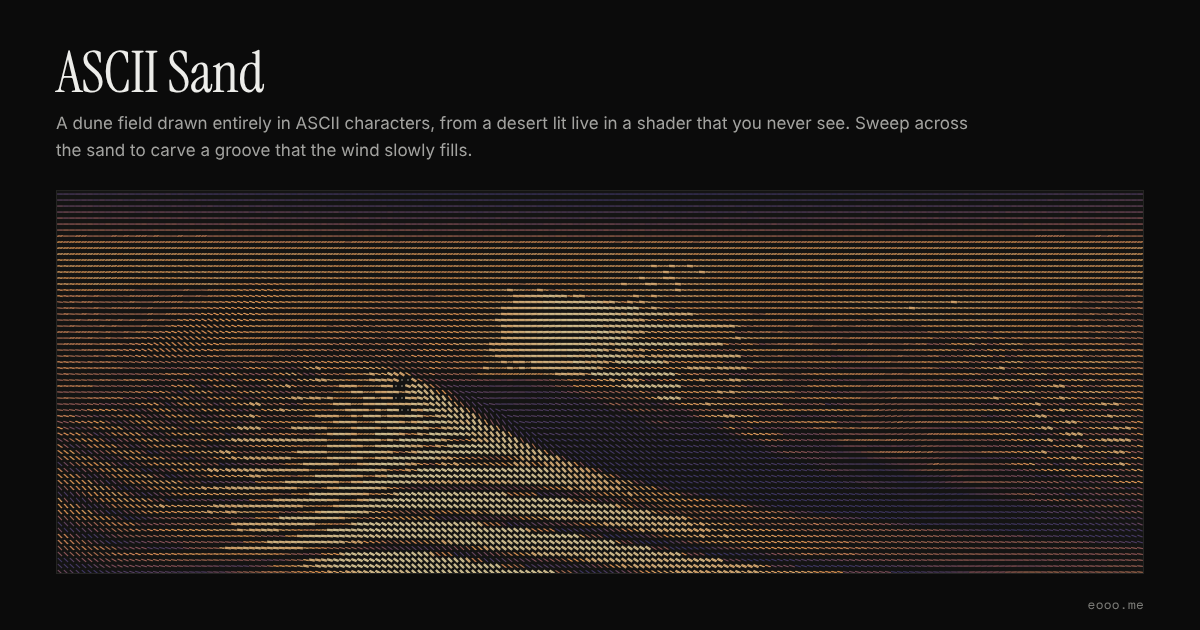
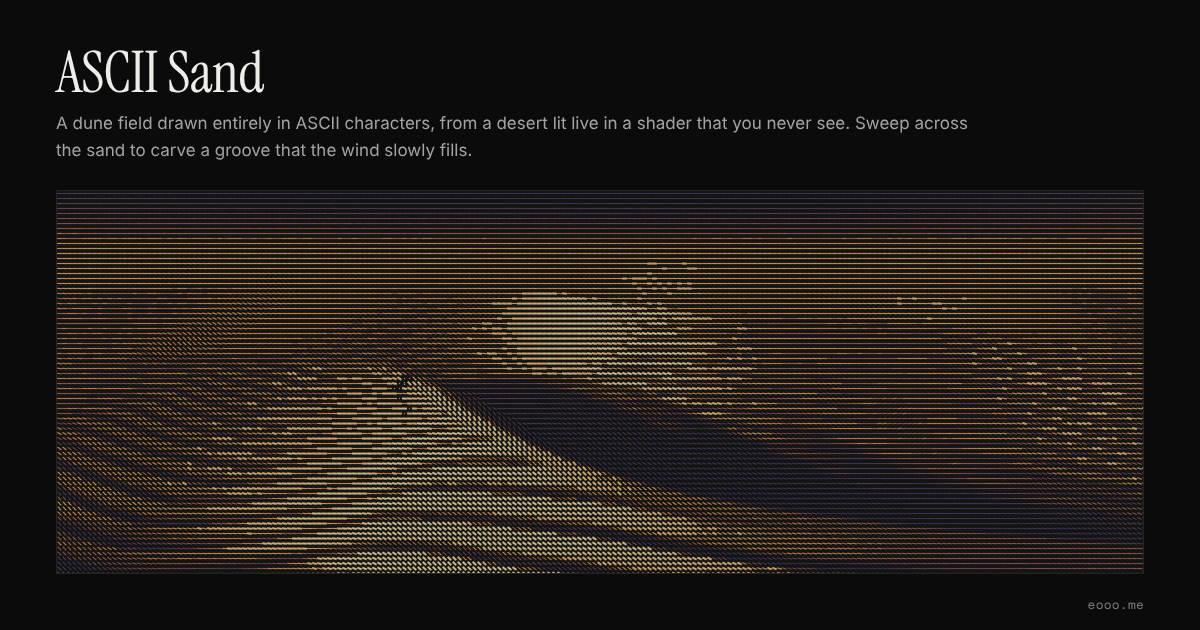
feat(lab): 字符画的格子再缩到 5px，舞台不管浅色深色都用深底
laken 比过 6px、5px 和深底以后定了 5px 加深底。
- 五个 ASCII 实验默认一格 5px（上一个提交是 6px）。
- index.md 加一个 dark 开关：写了 dark: true 的实验，舞台在服务端就带上 .always-dark，
  global.css 里手动深色那一组颜色同时给它，所以舞台不管主题都是深底，实验读到的 color-scheme 也是深色，
  一直按深色那套画，组件挂上之前就是深的，不会闪。五个 ASCII 实验都开着。
- 同步改了 README（舞台、frontmatter、配色三处）、五个 prompt 和 og.mjs 的注释，重截五张分享图。

Claude-Session: https://claude.ai/code/session_01AtSjXJX7xpdrjdmPy7ukhw

Changed region(s): [[0.0308, 0.3016, 0.9558, 0.9349]]

diff --git a/src/labs/ascii-clouds/clouds.js b/src/labs/ascii-clouds/clouds.js
@@ -6,9 +6,9 @@
      2. 云（clouds）：镜头站在地上往前上方看，画面最下沿刚好是地平线，整块都是天。每个像素往天上打一条光线，
         在 1 到 2.6 公里高的云层里走 48 步：云底平、云顶圆（云越厚顶越高），再用一张 32³ 的立体噪声（几层 Worley 反过来，
         一团一团鼓起来的）把边咬碎；每步往太阳那边再取三个点，算这里被挡掉多少光，加上天光，远处被雾抹成地平线的颜色。
-        这张图只画到「一格两个像素」那么细（字一格 6px，再细也看不出来），比整屏画便宜几十倍。
+        这张图只画到「一格两个像素」那么细（字一格 5px，再细也看不出来），比整屏画便宜几十倍。
         底稿存颜色和这一格有多少云。
-     3. 合成（composite）：整块切成 6px 见方的格子，每格都有字，不留空：
+     3. 合成（composite）：整块切成 5px 见方的格子，每格都有字，不留空：
         按这一格的亮度从 . : - = + * # % @ 里挑（越亮越浓），天是淡的点，云是浓的字；
         字顺着明暗的等高线转，云边一圈的字绕着云走，跟海浪里字顺着浪头转是一个做法。
         深色主题是黄昏：太阳贴着地平线，云被照成金色、粉色，背光的地方是紫的，字就用底稿的颜色；
@@ -326,7 +326,7 @@ const COMP_FS = /* glsl */ `
  * @param {HTMLCanvasElement} canvas
  * @param {{ period?: number, cell?: number, fps?: number }} [opts]
  */
-function create(canvas, { period = 12000, cell = 6, fps = 30 } = {}) {
+function create(canvas, { period = 12000, cell = 5, fps = 30 } = {}) {
   const gl = context(canvas);   // 没有 WebGL2 就抛错，交给调用的人接
   const software = softwareGL(gl);
   const motion = matchMedia("(prefers-reduced-motion: reduce)");

diff --git a/src/labs/ascii-waves/waves.js b/src/labs/ascii-waves/waves.js
@@ -6,7 +6,7 @@
         水的亮度（浪顶比浪谷亮，迎着光的浪面、反光更亮，远处被雾抹到中间）、浪头在画面上的走向、浪花有多浓。
         浪花只在三道最大的浪的浪尖上一簇一簇地起，往后拖一段渐淡的尾巴，每簇自己冒出来、再散掉；
         浪尖挤到一起（雅可比行列式变小）的地方、手划过的尾迹上也有。
-     2. 合成（composite）：整块切成 6px 见方的格子，每格都有字，不留空：
+     2. 合成（composite）：整块切成 5px 见方的格子，每格都有字，不留空：
         浪花够浓的格子画浪花的字 . : * o @（越浓越大），深色主题是白的，浅色主题是留白里淡淡的蓝，不转；浪花边上零星撒几个点当飞沫。
         别的格子画水：按亮度从 - ~ = 里挑，颜色沿一条色带走（深色主题越亮越浓，由深蓝到浅蓝；浅色主题反过来越暗越浓，由浅灰蓝到深蓝），
         字再转到浪头的走向上，一道道浪就被横着的字描出来，尾迹推出去的浪上的字也顺着那道浪转，
@@ -365,7 +365,7 @@ function lookAt(eye, at) {
  * @param {HTMLCanvasElement} canvas
  * @param {{ period?: number, cell?: number, fps?: number }} [opts]
  */
-function create(canvas, { period = 12000, cell = 6, fps = 30 } = {}) {
+function create(canvas, { period = 12000, cell = 5, fps = 30 } = {}) {
   const gl = context(canvas);   // 没有 WebGL2 就抛错，交给调用的人接
   const software = softwareGL(gl);
   const motion = matchMedia("(prefers-reduced-motion: reduce)");

diff --git a/src/labs/ascii-coal/coal.js b/src/labs/ascii-coal/coal.js
@@ -9,7 +9,7 @@
         朝着它的面一块块闪亮，亮面跟着光滑过去；斜着的面映着一点天光；鼠标是第二盏灯，悬在煤上，跟着鼠标走。
         越远越暗，远处没进黑里。缝里住着冷的蓝光：平时只有几处亮，沿着缝慢慢挪，把缝两边的煤块底下也映蓝。
         底稿存三样：亮度、蓝光有多亮、字该朝哪个方向放（煤面的等高线投到画面上，存成二倍角）。
-     3. 合成（composite）：整块切成 6px 见方的格子，每格都有字，不留空。跟 ASCII Waves 一个做法：
+     3. 合成（composite）：整块切成 5px 见方的格子，每格都有字，不留空。跟 ASCII Waves 一个做法：
         煤面按亮度从 - = # 里挑，颜色沿一条色带走，字再转到等高线的走向上，同一个面上的字朝一个方向，换一个面就换一个方向，
         一块块煤的棱角就被字描出来；蓝光把字染蓝，最亮的地方（裂开时炸开的那一下）是不转的 . : * o @。
         画布是透明的，字以外露出网页自己的底色。
@@ -454,7 +454,7 @@ const compFS = (T) => /* glsl */ `
  * @param {HTMLCanvasElement} canvas
  * @param {{ period?: number, cell?: number, fps?: number }} [opts]
  */
-function create(canvas, { period = 12000, cell = 6, fps = 30 } = {}) {
+function create(canvas, { period = 12000, cell = 5, fps = 30 } = {}) {
   const P = DEF;
   const gl = context(canvas);   // 没有 WebGL2 就抛错，交给调用的人接
   const software = softwareGL(gl);

diff --git a/src/labs/ascii-sand/sand.js b/src/labs/ascii-sand/sand.js
@@ -7,7 +7,7 @@
         太阳低低地挂在左后方：朝着镜头的迎风坡亮，背风坡背着光，沙丘的影子拖得很长（往太阳那边走几步看挡没挡住）；
         越远越被沙尘的雾抹平，到地平线跟天接上。棱上不时被风扬起一缕缕沙，顺着风往下飘。
         底稿存三样：亮度、扬起的沙有多少、字该朝哪个方向放（沙纹的走向，没有沙纹就顺着沙丘的等高线，投到画面上，存成二倍角）。
-     2. 合成（composite）：整块切成 6px 见方的格子，每格都有字，不留空。跟 ASCII Waves 一个做法：
+     2. 合成（composite）：整块切成 5px 见方的格子，每格都有字，不留空。跟 ASCII Waves 一个做法：
         沙按亮度从 - ~ = 里挑，颜色沿一条色带走，字再转到沙纹的走向上，一道道沙纹就被字描出来，跟着透视往远处收；
         扬起来的沙是另一个颜色的 . : *，不转。画布是透明的，字以外露出网页自己的底色。
 
@@ -406,7 +406,7 @@ const COMP_FS = /* glsl */ `
  * @param {HTMLCanvasElement} canvas
  * @param {{ period?: number, cell?: number, fps?: number }} [opts]
  */
-function create(canvas, { period = 12000, cell = 6, fps = 30 } = {}) {
+function create(canvas, { period = 12000, cell = 5, fps = 30 } = {}) {
   const gl = context(canvas);   // 没有 WebGL2 就抛错，交给调用的人接
   const software = softwareGL(gl);
   const motion = matchMedia("(prefers-reduced-motion: reduce)");

diff --git a/src/labs/ascii-black-hole/hole.js b/src/labs/ascii-black-hole/hole.js
@@ -9,7 +9,7 @@
         盘上一道道气流按开普勒转：里圈快、外圈慢。
         底稿存三样：亮度、星星有多亮、字该朝哪个方向放（气体绕着转的方向，按屏幕上算的，
         所以绕到黑洞上面的那道光环，字也跟着绕过去），方向存成二倍角。
-     2. 合成（composite）：整块切成 6px 见方的格子。跟另外几个字符画一个做法：
+     2. 合成（composite）：整块切成 5px 见方的格子。跟另外几个字符画一个做法：
         盘按亮度从 - ~ = 里挑，颜色沿一条色带走，字再转到气体的流向上，一圈圈轨道就被字描出来；
         星星是另一个颜色的 . + *，不转；黑洞和空的天上没有字，露出网页自己的底色。
 
@@ -296,7 +296,7 @@ const compFS = () => /* glsl */ `
  * @param {HTMLCanvasElement} canvas
  * @param {{ period?: number, cell?: number, fps?: number }} [opts]
  */
-function create(canvas, { period = 12000, cell = 6, fps = 30 } = {}) {
+function create(canvas, { period = 12000, cell = 5, fps = 30 } = {}) {
   const gl = context(canvas);   // 没有 WebGL2 就抛错，交给调用的人接
   const software = softwareGL(gl);
   const motion = matchMedia("(prefers-reduced-motion: reduce)");

diff --git a/src/content.config.ts b/src/content.config.ts
@@ -33,6 +33,7 @@ const labs = defineCollection({
     date: z.coerce.date(),            // 做出来的日子
     inspiration: z.url().optional(), // 照着谁的设计做的
     wip: z.boolean().default(false),  // 还没做完：卡片上不放组件，也不生成详情页
+    dark: z.boolean().default(false), // 舞台不管浅色深色都是深底，实验里也按深色画（字符画这种在浅底上发虚的）
     order: z.number(),                // 整体按 date 新的在前，同一天的按它排，越小越靠前
     prompt: z.string(),               // 详情页上的 Prompt：拷给 AI 就能照着做出这个实验的一段话
   }),

diff --git a/src/styles/global.css b/src/styles/global.css
@@ -37,6 +37,7 @@
 }
 
 /* 配色。浅色是默认；深色两处写：跟随系统（没手动选过浅色时），和手动选了深色。
+   手动选了深色那一处同时给 .always-dark：不管主题都用深色的一块（比如字符画实验的舞台），整块里的颜色都换成深色那几档。
    灰是略带暖的中性灰，强调色只有一个：钴蓝，只给链接、当前位置和字符画里被搅动的字。 */
 :root {
   --bg: #F7F7F5;
@@ -76,7 +77,8 @@
     color-scheme: dark;
   }
 }
-:root[data-theme="dark"] {
+:root[data-theme="dark"],
+.always-dark {
   --bg: #0B0B0B;
   --bg-2: #141413;
   --fg: #EDEDEA;

diff --git a/README.md b/README.md
@@ -40,7 +40,7 @@ pnpm check      # 类型检查
 ## 加一个实验
 
 1. 建目录 `src/labs/<slug>/`，`slug` 就是网址里那段（`/lab/<slug>/`），用小写和短横线。
-2. 写 `Demo.tsx`，默认导出一个 React 组件。根元素写 `className="lab-root <自己的类名>"`：`lab-root` 让它撑满舞台、内容居中，颜色、圆角、阴影都从它上面的变量取（见下面「实验的样子」）。舞台在卡片上高 280px，详情页上撑满第一屏剩下的高度（宽 1440、高 900 的窗口里大约 1200×580，手机上 360×500 上下），底色跟着主题走（浅色是浅灰，深色是深灰）。样式写在同目录的 `style.css`，在 `Demo.tsx` 里 `import "./style.css"`，选择器都挂在自己的类名下面（`.folder-lab .front`），不写裸的 `button`、`p`。图标从 `../_kit/icons` 拿，要用 WebGL2 画的从 `../_kit/gl.js` 拿样板（建上下文、编着色器、离屏图这些）。图片放 `assets/`，引用写 `import cover from "./assets/cover.webp?url"`（带 `?url` 拿到的是地址；不带的话 Astro 给的是一个对象，`<img src>` 会变成 `[object Object]`）。
+2. 写 `Demo.tsx`，默认导出一个 React 组件。根元素写 `className="lab-root <自己的类名>"`：`lab-root` 让它撑满舞台、内容居中，颜色、圆角、阴影都从它上面的变量取（见下面「实验的样子」）。舞台在卡片上高 280px，详情页上撑满第一屏剩下的高度（宽 1440、高 900 的窗口里大约 1200×580，手机上 360×500 上下），底色跟着主题走（浅色是浅灰，深色是深灰）；`index.md` 写了 `dark: true` 的，不管主题都是深灰的底，实验里读到的 `color-scheme` 也是深色，就一直按深色那套画。样式写在同目录的 `style.css`，在 `Demo.tsx` 里 `import "./style.css"`，选择器都挂在自己的类名下面（`.folder-lab .front`），不写裸的 `button`、`p`。图标从 `../_kit/icons` 拿，要用 WebGL2 画的从 `../_kit/gl.js` 拿样板（建上下文、编着色器、离屏图这些）。图片放 `assets/`，引用写 `import cover from "./assets/cover.webp?url"`（带 `?url` 拿到的是地址；不带的话 Astro 给的是一个对象，`<img src>` 会变成 `[object Object]`）。
 3. 写 `index.md`：
 
    ```md
@@ -51,6 +51,7 @@ pnpm check      # 类型检查
    date: 2025-01-08         # 做出来的日子：卡片上显示年月（Jan 2025），详情页显示月份全称
    inspiration: https://…   # 照着谁的设计做的，没有就不写
    wip: true                # 还没做完：卡片上画斜条纹，不挂组件，不生成详情页
+   dark: true               # 舞台不管浅色深色都是深底。五个 ASCII 实验都开着：细的字在浅灰底上发虚（2026-11-17）
    order: 5                 # 同一天做的按它排，越小越靠前
    prompt: |-               # 详情页上的 Prompt，英文，分段，保留换行（所以是 |-，不是 >-）
      Add a folder to my project that opens and fans out the photos inside when you point at it. …
@@ -95,7 +96,7 @@ pnpm check      # 类型检查
 ## 设计约定
 
 - 直角、不用阴影，区块之间用 1px 细线分开。首页每一节左边是等宽小字的节名，宽屏上跟着滚动停在顶上。
-- 黑白灰为主，略带暖。强调色只有一个钴蓝，只给链接、当前状态和字符画里被搅动的字：浅色主题 `#2F4BE8`（在底色上对比度 6.0），深色主题 `#8597FF`（7.4）。原来是炭火的橙，2026-10-27 laken 嫌它发黄，换成了蓝。灰的几档都过 4.5。值在 `global.css` 开头，深色写了两处（跟随系统、手动选了深色），改要一起改。
+- 黑白灰为主，略带暖。强调色只有一个钴蓝，只给链接、当前状态和字符画里被搅动的字：浅色主题 `#2F4BE8`（在底色上对比度 6.0），深色主题 `#8597FF`（7.4）。原来是炭火的橙，2026-10-27 laken 嫌它发黄，换成了蓝。灰的几档都过 4.5。值在 `global.css` 开头，深色写了两处（跟随系统、手动选了深色），改要一起改；手动选了深色那一处同时管 `.always-dark`，就是不管主题都用深色的一块（`dark: true` 的实验舞台）。
 - 大标题 Instrument Serif（第二行斜体），标签、日期、导航这些小字 DM Mono，正文用系统字体。两款都是 SIL OFL 1.1，许可证在 `public/fonts/OFL.txt`，文件是从 sooty 官网拷来的拉丁字母子集。字体都放在本站，不从 Google Fonts 拿。
 - 浅色、深色跟随系统，顶栏右边的按钮可以手动换，记在 `localStorage` 的 `theme` 里；`<head>` 最前面那段脚本在页面画出来之前就定好，不闪。
 - 页面上只有淡入和短距离的位移（`.rise`），系统开了「减弱动态效果」就不动。一直在动的只有首屏的字符画。
@@ -127,7 +128,7 @@ pnpm check      # 类型检查
 - **Astro**（静态生成）：比较过留在 Vite + React 单页、Next.js 静态导出、Eleventy。原来的单页把所有东西都放在一个 JS 里，HTML 是空的，搜索引擎和分享卡片都看不到内容，首屏要等 React 下载完；Next.js 静态导出每页都带着 React 的运行时；Eleventy 页面很轻，但实验是 React 组件，要另想办法挂。Astro 默认页面不带 JS，又能把 React 组件当「岛」按需挂，正好：首页本身只有主题按钮和字符画两段小脚本，React 和实验的代码等滚到实验那一节才下载，一个实验一个文件。sooty 的官网也是 Astro，用法一样。
 - **React 只给实验用**：实验原来就是 React 写的，拖动、切换这些交互用 React 写也顺手，源码公开给人看。2026-10-27 重写时样式换成了普通 CSS 和共用的 `_kit/kit.css`，去掉了 Motion、Tabler 图标和 Tailwind 的类名（见「实验的样子」）。网站本身（顶栏、首页、详情页）全是 Astro 组件和普通 CSS。
 - **Tailwind 只扫 `src/labs/`**：现在的实验都不用它的类名，留着主要是 preflight 当整站的样式重置；以后的实验想用类名也能用。网站自己的样式不用 Tailwind，写在组件的 `<style>` 里。
-- **ASCII Waves、ASCII Clouds、ASCII Coal、ASCII Sand、ASCII Black Hole 直接写 WebGL2，不引 3D 库**：五个实验都是着色器在离屏图里画一个真的 3D 场景当底稿（海：透视镜头、12 万个点的海面网格、深度；云：往天上打光线，在云层里一步步走；煤：斜着往下看一床煤块，按 Voronoi 分成一块块，每块的高度连同坡度一起算，光线步进只在尺寸变了时算一次、存下落点，每帧只重新打光，2026-11-05 照 laken 给的一块裂开的煤的图加的；沙：站在沙丘上往地平线看，每个像素往高度场打光线，迎风坡缓、背风坡陡，迎风坡上有沙纹，低低的太阳往太阳那边走几步算影子，2026-11-06 加的；黑洞：每个像素的光线按史瓦西黑洞的引力一步步弯着走，穿过吸积盘就加上盘在那儿的光，盘后面那一半被弯到黑洞上下成两道光环，2026-11-09 laken 要一个宇宙题材的，挑了黑洞），再全屏挑字，屏上只有字。五个实验挑字的做法一样：- ~ = 这类横的字转到浪头、沙纹、煤面等高线、气体绕着转的走向上，明暗主要靠颜色。格子 6px 见方，横的字连描边一起拉到正好一格宽，左右两格首尾相接连成一整道（原来是 8px、拉到八成多宽，一段段断开的；2026-11-17 laken 嫌浅色背景上看不清，要格子密一点、铺满，改成了现在这样）。黑洞的光线是弯的，字的方向没法从盘面直接投到屏幕上，改成按屏幕上「穿过盘面那一点的半径」的导数算，绕到黑洞上面的光环上字也跟着绕。煤和沙第一版是正对着、从正上方看的，缝和棱用不转的 ~ - \ | / 描（老式字符画的做法），laken 觉得跟海和云比差太多，2026-11-06 都改成了现在的透视镜头和转着的字。2026-11-04 先用 Three.js 写了海浪（laken 定的「全程用 Three.js 和 shader 实时渲染」），同一天做云的时候 laken 觉得不用 Three.js 也能一模一样，定了两个实验都改成原生 WebGL2。着色器本来就是自己写的，Three.js 只替我们做了镜头矩阵、离屏图、深度、mipmap 和「鼠标落在海面哪里」，这些在 `src/labs/_kit/gl.js`（建上下文、编着色器、按类型设 uniform、全屏三角形、离屏图、从 canvas 建贴图）和 `waves.js` 开头的两个矩阵函数里，一共一百多行。改完以后海浪的静止帧跟 Three.js 那版逐像素一样（深浅两种主题、1 倍和 2 倍屏都比过），海浪这个实验少下 540 KB（gzip 后 135 KB）。也看过：
+- **ASCII Waves、ASCII Clouds、ASCII Coal、ASCII Sand、ASCII Black Hole 直接写 WebGL2，不引 3D 库**：五个实验都是着色器在离屏图里画一个真的 3D 场景当底稿（海：透视镜头、12 万个点的海面网格、深度；云：往天上打光线，在云层里一步步走；煤：斜着往下看一床煤块，按 Voronoi 分成一块块，每块的高度连同坡度一起算，光线步进只在尺寸变了时算一次、存下落点，每帧只重新打光，2026-11-05 照 laken 给的一块裂开的煤的图加的；沙：站在沙丘上往地平线看，每个像素往高度场打光线，迎风坡缓、背风坡陡，迎风坡上有沙纹，低低的太阳往太阳那边走几步算影子，2026-11-06 加的；黑洞：每个像素的光线按史瓦西黑洞的引力一步步弯着走，穿过吸积盘就加上盘在那儿的光，盘后面那一半被弯到黑洞上下成两道光环，2026-11-09 laken 要一个宇宙题材的，挑了黑洞），再全屏挑字，屏上只有字。五个实验挑字的做法一样：- ~ = 这类横的字转到浪头、沙纹、煤面等高线、气体绕着转的走向上，明暗主要靠颜色。格子 5px 见方，横的字连描边一起拉到正好一格宽，左右两格首尾相接连成一整道（原来是 8px、拉到八成多宽，一段段断开的；2026-11-17 laken 嫌浅色背景上看不清，要格子密一点、铺满，6px 和 5px 比过以后选了 5px）。黑洞的光线是弯的，字的方向没法从盘面直接投到屏幕上，改成按屏幕上「穿过盘面那一点的半径」的导数算，绕到黑洞上面的光环上字也跟着绕。煤和沙第一版是正对着、从正上方看的，缝和棱用不转的 ~ - \ | / 描（老式字符画的做法），laken 觉得跟海和云比差太多，2026-11-06 都改成了现在的透视镜头和转着的字。2026-11-04 先用 Three.js 写了海浪（laken 定的「全程用 Three.js 和 shader 实时渲染」），同一天做云的时候 laken 觉得不用 Three.js 也能一模一样，定了两个实验都改成原生 WebGL2。着色器本来就是自己写的，Three.js 只替我们做了镜头矩阵、离屏图、深度、mipmap 和「鼠标落在海面哪里」，这些在 `src/labs/_kit/gl.js`（建上下文、编着色器、按类型设 uniform、全屏三角形、离屏图、从 canvas 建贴图）和 `waves.js` 开头的两个矩阵函数里，一共一百多行。改完以后海浪的静止帧跟 Three.js 那版逐像素一样（深浅两种主题、1 倍和 2 倍屏都比过），海浪这个实验少下 540 KB（gzip 后 135 KB）。也看过：
   - Three.js（0.186，MIT）：`PerspectiveCamera`、`RawShaderMaterial`、`WebGLRenderTarget`、`Raycaster` 正好都有，但只用到这几样，场景树、材质、灯光这些大半的代码用不上，却要整个下载。
   - OGL（1.0，Unlicense）：小，接口跟 Three.js 像，但 2025 年初以后没再发版。
   - regl（2.1，MIT）：函数式的写法很省，但只支持 WebGL1，着色器得改写成 GLSL 1.0，2024 年以后没再发版。

diff --git a/src/labs/ascii-coal/index.md b/src/labs/ascii-coal/index.md
@@ -3,6 +3,7 @@ title: ASCII Coal
 summary: A bed of coal drawn entirely in ASCII characters, from lumps lit live in a shader that you never see. Sweep across it and it cracks open, lit from within.
 tags: [WebGL, Shaders]
 date: 2026-11-05
+dark: true
 order: 11
 prompt: |-
   Add an ASCII coal bed to my project: a bed of faceted coal lumps seen at an angle, lit live in a WebGL2 shader and shown only as ASCII characters, where the pointer cracks it open and cold blue light leaks out. Use raw WebGL2 with no 3D library: one engine file, plus a thin component in my existing framework. The canvas is transparent and fills its container; don't change my page's styles.
@@ -27,7 +28,7 @@ prompt: |-
   - Render at 2 pixels per character cell into a mipmapped target, and read each cell from mip level 1.
 
   3. Characters
-  - Cut the canvas into 6 px cells. Every cell gets a character.
+  - Cut the canvas into 5 px cells. Every cell gets a character.
   - Coal gets - = by brightness, turned along the stored direction, so each face is hatched in its own direction and the lumps' edges show where the direction changes. Stretch them sideways until each one, outline included, is exactly a cell wide, so neighbours join end to end. Read the direction from mip level 2, and guard the angle where the direction vector is zero, because atan(0, 0) is NaN on some GPUs.
   - In dark mode, map brightness 0.04–0.5 across the glyphs and lift the darks with a power of 0.6, since coal is mostly dark. Turn the strokes in the darkest cells level, like the hatching in an engraving's shadows, and let only the lit faces follow their contours.
   - In light mode the ink sits on the shaded faces instead: map 0.04–0.65 (or half the faces wash out to pale grey and the lumps look hollow), let the inked faces follow their contours, and lay only the palest lit faces level. Lay the strokes level in the distance too, where the bed fades to paper.

diff --git a/src/labs/ascii-sand/index.md b/src/labs/ascii-sand/index.md
@@ -3,6 +3,7 @@ title: ASCII Sand
 summary: A dune field drawn entirely in ASCII characters, from a desert lit live in a shader that you never see. Sweep across the sand to carve a groove that the wind slowly fills.
 tags: [WebGL, Shaders]
 date: 2026-11-06
+dark: true
 order: 12
 prompt: |-
   Add an ASCII dune field to my project: a desert seen from a camera standing on the dunes, lit live in a WebGL2 shader and shown only as ASCII characters, where the pointer carves grooves that the wind fills back in and a click pours a little pile of sand that the wind blows away. Use raw WebGL2 with no 3D library: one engine file, plus a thin component in my existing framework. The canvas is transparent and fills its container; don't change my page's styles.
@@ -25,7 +26,7 @@ prompt: |-
   - Render at 2 pixels per character cell into a mipmapped target, and read each cell from mip level 1.
 
   2. Characters
-  - Cut the canvas into 6 px cells. Every cell gets a character.
+  - Cut the canvas into 5 px cells. Every cell gets a character.
   - Sand gets - ~ = by brightness, turned along the stored direction, so each ripple and dune is traced by sideways strokes that converge with the perspective. Stretch them sideways until each one, outline included, is exactly a cell wide, so neighbours join end to end into unbroken lines. Read the direction from a blurrier mip level (2.5) than the brightness, so it doesn't jitter with every small bump, and guard the angle where the direction vector is zero, because atan(0, 0) is NaN on some GPUs.
   - Map brightness 0.31–0.62 across the glyphs, push it through a gentle S-curve for contrast, and raise it to a power before picking the glyph (1.8 in dark mode), so most cells are the thin - and ~ and only the brightest get =. The colour ramp carries most of the tone.
   - Blown sand gets upright . : * in its own colour, with a few stray grains around it.

diff --git a/src/labs/ascii-black-hole/index.md b/src/labs/ascii-black-hole/index.md
@@ -3,6 +3,7 @@ title: ASCII Black Hole
 summary: A black hole drawn entirely in ASCII characters, from light bent live in a shader that you never see. Sweep across the disk to feed it, click to drop a star in.
 tags: [WebGL, Shaders]
 date: 2026-11-09
+dark: true
 order: 13
 prompt: |-
   Add an ASCII black hole to my project: a black hole with a glowing accretion disk, its light bent live in a WebGL2 shader and shown only as ASCII characters, where sweeping the pointer across the disk feeds it streaks of hot gas and a click drops in a star that gets torn apart. Use raw WebGL2 with no 3D library: one engine file, plus a thin component in my existing framework. The canvas is transparent and fills its container; don't change my page's styles.
@@ -24,7 +25,7 @@ prompt: |-
   - Render at 2 pixels per character cell into a mipmapped target, and read each cell from mip level 1.
 
   2. Characters
-  - Cut the canvas into 6 px cells. The hole and empty space get no character.
+  - Cut the canvas into 5 px cells. The hole and empty space get no character.
   - The disk gets - ~ = by brightness, turned along the stored direction, so the orbits are traced by sideways strokes that bend around the hole. Stretch them sideways until each one, outline included, is exactly a cell wide, so neighbours join end to end into unbroken arcs. Read the direction from mip level 1.5, and guard the angle where the direction vector is zero, because atan(0, 0) is NaN on some GPUs.
   - Map brightness 0.06–0.85 across the glyphs with a gentle S-curve, and raise it to a power before picking the glyph (1.4 in dark mode, 1.2 in light), so most cells are the thin - and ~ and only the brightest get =.
   - Where gas or a star the visitor added makes most of the light, lift the cell to at least 60% and tint it toward a hotter colour.

diff --git a/src/labs/ascii-clouds/index.md b/src/labs/ascii-clouds/index.md
@@ -3,6 +3,7 @@ title: ASCII Clouds
 summary: Cumulus clouds drawn entirely in ASCII characters, from a sky raymarched live in a shader that you never see. Sweep through them to part the clouds.
 tags: [WebGL, Shaders]
 date: 2026-11-02
+dark: true
 order: 9
 prompt: |-
   Add an ASCII cloud sky to my project: cumulus clouds rendered live in a WebGL2 shader, shown only as ASCII characters, that part when the pointer sweeps through them. Use raw WebGL2 with no 3D library: one engine file, plus a thin component in my existing framework. The canvas is transparent and fills its container; don't change my page's styles.
@@ -18,7 +19,7 @@ prompt: |-
   - Render this draft at only 2 pixels per character cell into a mipmapped render target. Nobody sees it directly.
 
   2. Characters
-  - Cut the canvas into 6 px cells. Every cell gets a character; none is left empty.
+  - Cut the canvas into 5 px cells. Every cell gets a character; none is left empty.
   - Pick from . : - = + * # % @ by brightness. The sky uses only . : - and the clouds use the rest (light mode inks them differently, see Themes).
   - Turn each character along the brightness contour, perpendicular to the gradient across neighbouring cells, so the strokes flow around each cloud. Stretch - and = sideways until each one, outline included, is exactly a cell wide, so the hatching joins end to end. Guard the angle where the gradient is zero, because atan(0, 0) is NaN on some GPUs.
   - Draw the characters from a glyph atlas painted with the canvas 2D API in my site's monospace font. Repaint it once the font has loaded.
